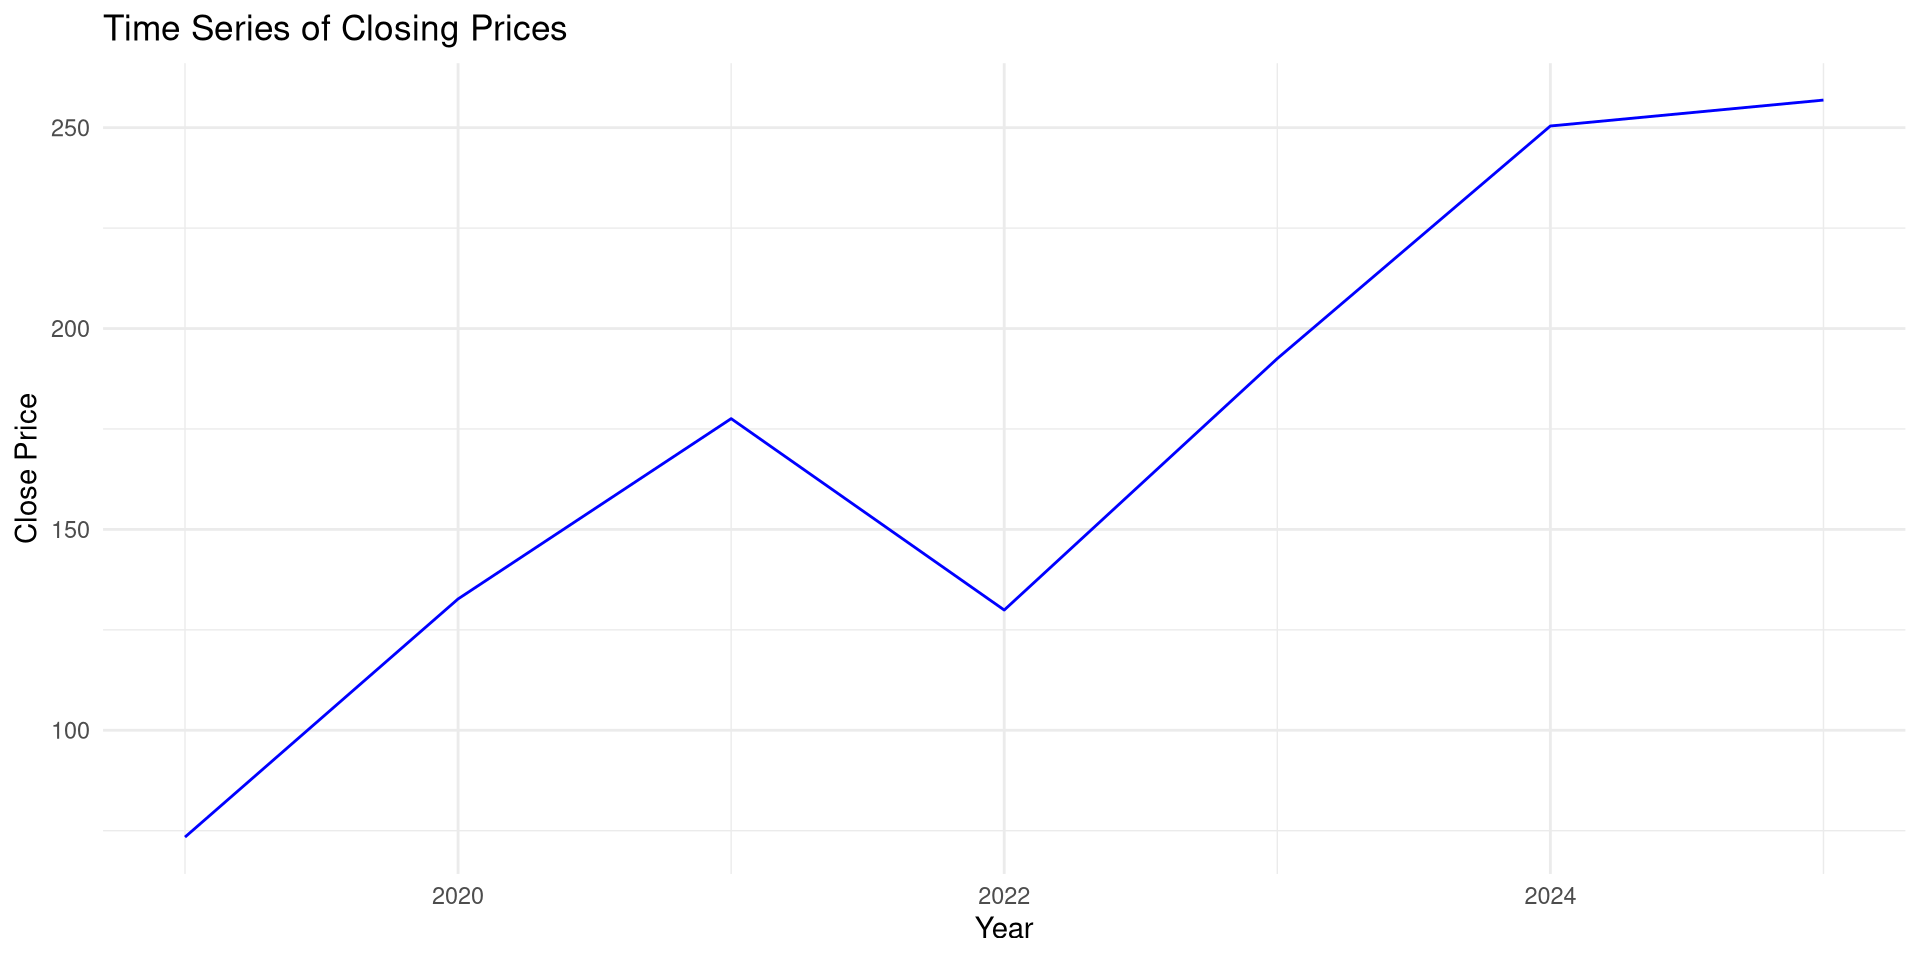
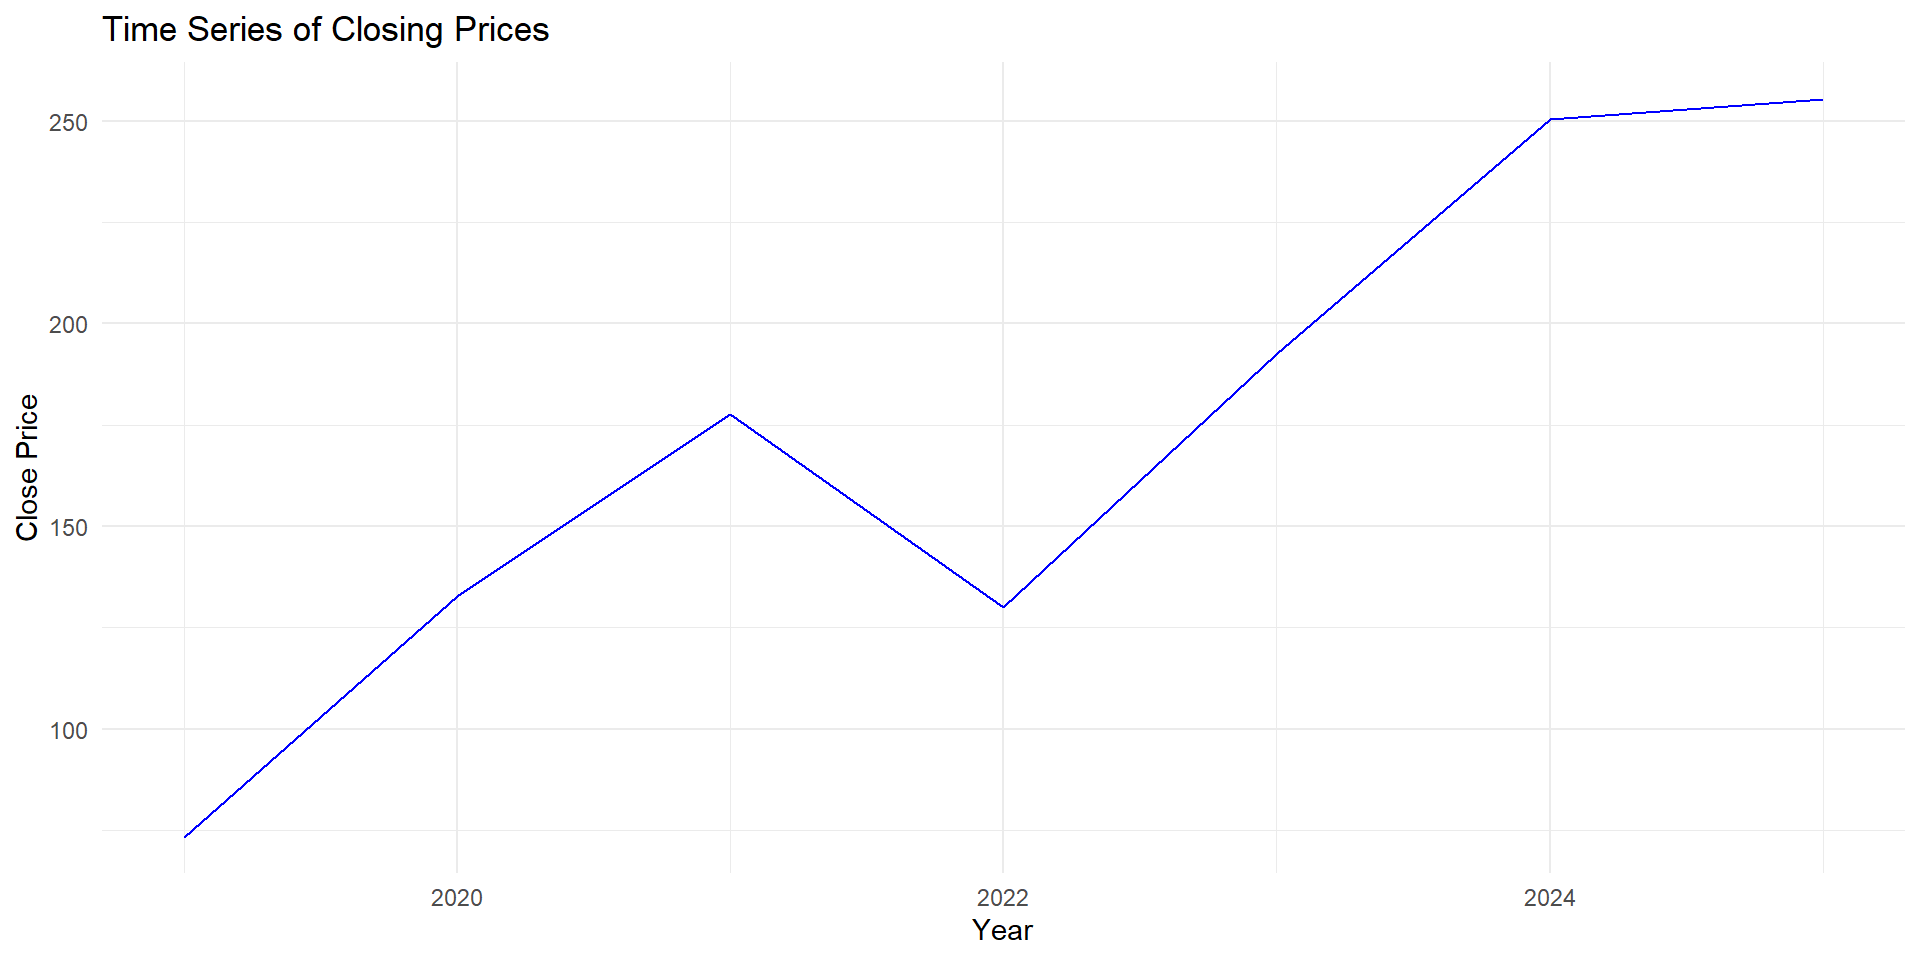
update slides statistics

diff --git a/iscal/statistics1/1_intro.html b/iscal/statistics1/1_intro.html
@@ -6,8 +6,8 @@
 <script src="1_intro_files/libs/quarto-html/tippy.umd.min.js"></script>
 <link href="1_intro_files/libs/quarto-html/tippy.css" rel="stylesheet">
 <link href="1_intro_files/libs/quarto-html/light-border.css" rel="stylesheet">
-<link href="1_intro_files/libs/quarto-html/quarto-syntax-highlighting-dc55a5b9e770e841cd82e46aadbfb9b0.css" rel="stylesheet" id="quarto-text-highlighting-styles"><meta charset="utf-8">
-  <meta name="generator" content="quarto-1.8.24">
+<link href="1_intro_files/libs/quarto-html/quarto-syntax-highlighting-37eea08aefeeee20ff55810ff984fec1.css" rel="stylesheet" id="quarto-text-highlighting-styles"><meta charset="utf-8">
+  <meta name="generator" content="quarto-1.7.32">
 
   <meta name="author" content="Paulo Fagandini">
   <title>Introduction and Growth Rates</title>
@@ -29,7 +29,7 @@
       vertical-align: middle;
     }
   </style>
-  <link rel="stylesheet" href="1_intro_files/libs/revealjs/dist/theme/quarto-70bf8efb484b24f2a3e86c10bde9a4bf.css">
+  <link rel="stylesheet" href="1_intro_files/libs/revealjs/dist/theme/quarto-41ecee5cfd56ab9c7aeb19d918fe5717.css">
   <link href="1_intro_files/libs/revealjs/plugin/quarto-line-highlight/line-highlight.css" rel="stylesheet">
   <link href="1_intro_files/libs/revealjs/plugin/reveal-menu/menu.css" rel="stylesheet">
   <link href="1_intro_files/libs/revealjs/plugin/reveal-menu/quarto-menu.css" rel="stylesheet">
@@ -122,10 +122,15 @@
     }
   </style>
   <link href="1_intro_files/libs/htmltools-fill-0.5.8.1/fill.css" rel="stylesheet">
+
   <script src="1_intro_files/libs/htmlwidgets-1.6.4/htmlwidgets.js"></script>
+
   <script src="1_intro_files/libs/viz-1.8.2/viz.js"></script>
+
   <link href="1_intro_files/libs/DiagrammeR-styles-0.2/styles.css" rel="stylesheet">
+
   <script src="1_intro_files/libs/grViz-binding-1.0.11/grViz.js"></script>
+
 </head>
 <body class="quarto-light">
   <div class="reveal">
@@ -287,7 +292,7 @@ Paulo Fagandini
 </tr>
 <tr class="odd">
 <td style="text-align: right;">2025</td>
-<td style="text-align: right;">256.87</td>
+<td style="text-align: right;">255.46</td>
 </tr>
 </tbody>
 </table>
@@ -481,7 +486,7 @@ Paulo Fagandini
 <section id="motivation" class="slide level2">
 <h2>Motivation</h2>
 
-<img data-src="1_intro_files/figure-revealjs/unnamed-chunk-4-1.png" class="quarto-figure quarto-figure-center r-stretch" width="960"><p>Which stock would you have purchased in 2015-09-29?</p>
+<img data-src="1_intro_files/figure-revealjs/unnamed-chunk-4-1.png" class="quarto-figure quarto-figure-center r-stretch" width="960"><p>Which stock would you have purchased in 2015-10-02?</p>
 </section>
 <section id="motivation-1" class="slide level2">
 <h2>Motivation</h2>
@@ -530,12 +535,12 @@ Paulo Fagandini
 <section id="motivation-4" class="slide level2">
 <h2>Motivation</h2>
 
-<img data-src="1_intro_files/figure-revealjs/unnamed-chunk-5-1.png" class="quarto-figure quarto-figure-center r-stretch" width="960"><p>Now we have a much clear picture. We can compare their evolution starting in 2015-09-29.</p>
+<img data-src="1_intro_files/figure-revealjs/unnamed-chunk-5-1.png" class="quarto-figure quarto-figure-center r-stretch" width="960"><p>Now we have a much clear picture. We can compare their evolution starting in 2015-10-02.</p>
 <p>What can you read from the plot?</p>
 </section>
 <section id="motivation-5" class="slide level2">
 <h2>Motivation</h2>
-<p>Note that for 2015-09-29, we would have, for A and B:</p>
+<p>Note that for 2015-10-02, we would have, for A and B:</p>
 <p><span class="math display">\[1+\frac{a_t-a_t}{a_t}=1\quad\text{and}\quad 1+\frac{b_t-b_t}{b_t}=1\]</span></p>
 <p>We just built and index number!</p>
 <p>By convention though, instead of using 1 for the reference date, we will use 100 (as in 100%) for the reference day (we will put a name to this in a few moments).</p>
@@ -562,7 +567,7 @@ Paulo Fagandini
 </div>
 <p><br>
 </p>
-<p>In our previous example, the base day would have been 2015-09-29. Note that in the base period <span class="math display">\[I_0=\frac{x_0}{x_0}\times 100 = 100\]</span></p>
+<p>In our previous example, the base day would have been 2015-10-02. Note that in the base period <span class="math display">\[I_0=\frac{x_0}{x_0}\times 100 = 100\]</span></p>
 </section>
 <section id="index-numbers-1" class="slide level2">
 <h2>Index Numbers</h2>
@@ -570,8 +575,8 @@ Paulo Fagandini
 <p>Also, an Index Number can have a fixed base or a moving base.</p>
 <div class="cell">
 <div class="cell-output-display">
-<div class="grViz html-widget html-fill-item" id="htmlwidget-7882c0fd2834cdc2fb51" style="width:960px;height:480px;"></div>
-<script type="application/json" data-for="htmlwidget-7882c0fd2834cdc2fb51">{"x":{"diagram":"\ndigraph TimeSeriesStructure {\n  graph [layout = dot, rankdir = TB]\n\n  node [shape = box, style = filled, fillcolor = lightgray, fontname = Helvetica]\n\n  Index [label = \"Index\"]\n  UnderlyingVariable [label = \"Underlying Variable\"]\n  Base [label = \"Base\"]\n  Dimension [label = \"Dimension\"]\n\n  Simple [label = \"Simple\"]\n  Composite [label = \"Composite\"]\n\n  Fixed [label = \"Fixed\"]\n  Rolling [label = \"Rolling\"]\n\n  Chronological [label = \"Chronological\"]\n  Geographical [label = \"Geographical\"]\n\n  Index -> UnderlyingVariable\n  Index -> Base\n  Index -> Dimension\n\n  UnderlyingVariable -> Simple\n  UnderlyingVariable -> Composite\n\n  Base -> Fixed\n  Base -> Rolling\n\n  Dimension -> Chronological\n  Dimension -> Geographical\n}\n","config":{"engine":"dot","options":null}},"evals":[],"jsHooks":[]}</script>
+<div class="grViz html-widget html-fill-item" id="htmlwidget-25567ebf77556623221c" style="width:960px;height:480px;"></div>
+<script type="application/json" data-for="htmlwidget-25567ebf77556623221c">{"x":{"diagram":"\ndigraph TimeSeriesStructure {\n  graph [layout = dot, rankdir = TB]\n\n  node [shape = box, style = filled, fillcolor = lightgray, fontname = Helvetica]\n\n  Index [label = \"Index\"]\n  UnderlyingVariable [label = \"Underlying Variable\"]\n  Base [label = \"Base\"]\n  Dimension [label = \"Dimension\"]\n\n  Simple [label = \"Simple\"]\n  Composite [label = \"Composite\"]\n\n  Fixed [label = \"Fixed\"]\n  Rolling [label = \"Rolling\"]\n\n  Chronological [label = \"Chronological\"]\n  Geographical [label = \"Geographical\"]\n\n  Index -> UnderlyingVariable\n  Index -> Base\n  Index -> Dimension\n\n  UnderlyingVariable -> Simple\n  UnderlyingVariable -> Composite\n\n  Base -> Fixed\n  Base -> Rolling\n\n  Dimension -> Chronological\n  Dimension -> Geographical\n}\n","config":{"engine":"dot","options":null}},"evals":[],"jsHooks":[]}</script>
 </div>
 </div>
 </section>
@@ -1036,8 +1041,8 @@ Table&nbsp;1: Changing Base
 <p>This is a great opportunity to introduce another classification for our index numbers:</p>
 <div class="cell">
 <div class="cell-output-display">
-<div class="grViz html-widget html-fill-item" id="htmlwidget-a6248077776a57c2f562" style="width:960px;height:480px;"></div>
-<script type="application/json" data-for="htmlwidget-a6248077776a57c2f562">{"x":{"diagram":"\ndigraph flowchart {\n  graph [layout = dot, rankdir = TB]\n  node [shape = box, style = filled, fillcolor = lightgray, fontname = Helvetica]\n\n  A [label = \"Index\"]\n  B [label = <Price <i>P<\/i>>]\n  C [label = <Quantity <i>Q<\/i>>]\n  D [label = <Value <i>P<\/i> <i>&times;<\/i> <i>Q<\/i>>]\n\n  A -> B\n  A -> C\n  A -> D\n}\n","config":{"engine":"dot","options":null}},"evals":[],"jsHooks":[]}</script>
+<div class="grViz html-widget html-fill-item" id="htmlwidget-5c9e16936703c99203fb" style="width:960px;height:480px;"></div>
+<script type="application/json" data-for="htmlwidget-5c9e16936703c99203fb">{"x":{"diagram":"\ndigraph flowchart {\n  graph [layout = dot, rankdir = TB]\n  node [shape = box, style = filled, fillcolor = lightgray, fontname = Helvetica]\n\n  A [label = \"Index\"]\n  B [label = <Price <i>P<\/i>>]\n  C [label = <Quantity <i>Q<\/i>>]\n  D [label = <Value <i>P<\/i> <i>&times;<\/i> <i>Q<\/i>>]\n\n  A -> B\n  A -> C\n  A -> D\n}\n","config":{"engine":"dot","options":null}},"evals":[],"jsHooks":[]}</script>
 </div>
 </div>
 </section>
@@ -1727,72 +1732,64 @@ CPI<sub>link</sub>
 <table>
 <thead>
 <tr>
-<th>
-<p>
-</p>
+<th rowspan="2">
+Public Transportation
 </th>
-<th>
-<p>
+<th colspan="2">
 Year 1
-</p>
+</th>
+<th colspan="2">
+Year 2
+</th>
+</tr>
+<tr>
+<th>
+Trips
 </th>
 <th>
-<p>
-Year 2
-</p>
+Price per trip
+</th>
+<th>
+Trips
+</th>
+<th>
+Price Index (Base: year 1)
 </th>
 </tr>
 </thead>
 <tbody>
 <tr>
 <td>
-<p>
-Public Transportation
-</p>
-</td>
-<td>
-<p>
-N Trips
-</p>
-</td>
-<td>
-<p>
-Ticket price
-</p>
-</td>
-</tr>
-<tr>
-<td>
-<p>
 Bus
-</p>
 </td>
 <td>
-<p>
 1,763,521
-</p>
 </td>
 <td>
-<p>
 1.15
-</p>
+</td>
+<td>
+1,875,345
+</td>
+<td>
+108.70
 </td>
 </tr>
 <tr>
 <td>
-<p>
 Metro
-</p>
 </td>
 <td>
-<p>
 3,148,350
-</p>
 </td>
 <td>
-<p>
 1.2
-</p>
+</td>
+<td>
+3,396,138
+</td>
+<td>
+112.50
 </td>
 </tr>
 </tbody>
@@ -2129,7 +2126,7 @@ Metro
         margin: 0.1,
 
         math: {
-          mathjax: 'https://cdn.jsdelivr.net/npm/mathjax@2.7.9/MathJax.js',
+          mathjax: 'https://cdnjs.cloudflare.com/ajax/libs/mathjax/2.7.9/MathJax.js',
           config: 'TeX-AMS_HTML-full',
           tex2jax: {
             inlineMath: [['\\(','\\)']],
@@ -2156,42 +2153,80 @@ Metro
       });
     </script>
     
+
     <script>
+
       // htmlwidgets need to know to resize themselves when slides are shown/hidden.
+
       // Fire the "slideenter" event (handled by htmlwidgets.js) when the current
+
       // slide changes (different for each slide format).
+
       (function () {
+
         // dispatch for htmlwidgets
+
         function fireSlideEnter() {
+
           const event = window.document.createEvent("Event");
+
           event.initEvent("slideenter", true, true);
+
           window.document.dispatchEvent(event);
+
         }
+
+    
 
         function fireSlideChanged(previousSlide, currentSlide) {
+
           fireSlideEnter();
 
+    
+
           // dispatch for shiny
+
           if (window.jQuery) {
+
             if (previousSlide) {
+
               window.jQuery(previousSlide).trigger("hidden");
+
             }
+
             if (currentSlide) {
+
               window.jQuery(currentSlide).trigger("shown");
+
             }
+
           }
+
         }
+
+    
 
         // hookup for slidy
+
         if (window.w3c_slidy) {
+
           window.w3c_slidy.add_observer(function (slide_num) {
+
             // slide_num starts at position 1
+
             fireSlideChanged(null, w3c_slidy.slides[slide_num - 1]);
+
           });
+
         }
 
+    
+
       })();
+
     </script>
+
+    
 
     <script id="quarto-html-after-body" type="application/javascript">
       window.document.addEventListener("DOMContentLoaded", function (event) {
@@ -2241,14 +2276,13 @@ Metro
           e.clearSelection();
         }
         const getTextToCopy = function(trigger) {
-          const outerScaffold = trigger.parentElement.cloneNode(true);
-          const codeEl = outerScaffold.querySelector('code');
-          for (const childEl of codeEl.children) {
-            if (isCodeAnnotation(childEl)) {
-              childEl.remove();
+            const codeEl = trigger.previousElementSibling.cloneNode(true);
+            for (const childEl of codeEl.children) {
+              if (isCodeAnnotation(childEl)) {
+                childEl.remove();
+              }
             }
-          }
-          return codeEl.innerText;
+            return codeEl.innerText;
         }
         const clipboard = new window.ClipboardJS('.code-copy-button:not([data-in-quarto-modal])', {
           text: getTextToCopy
